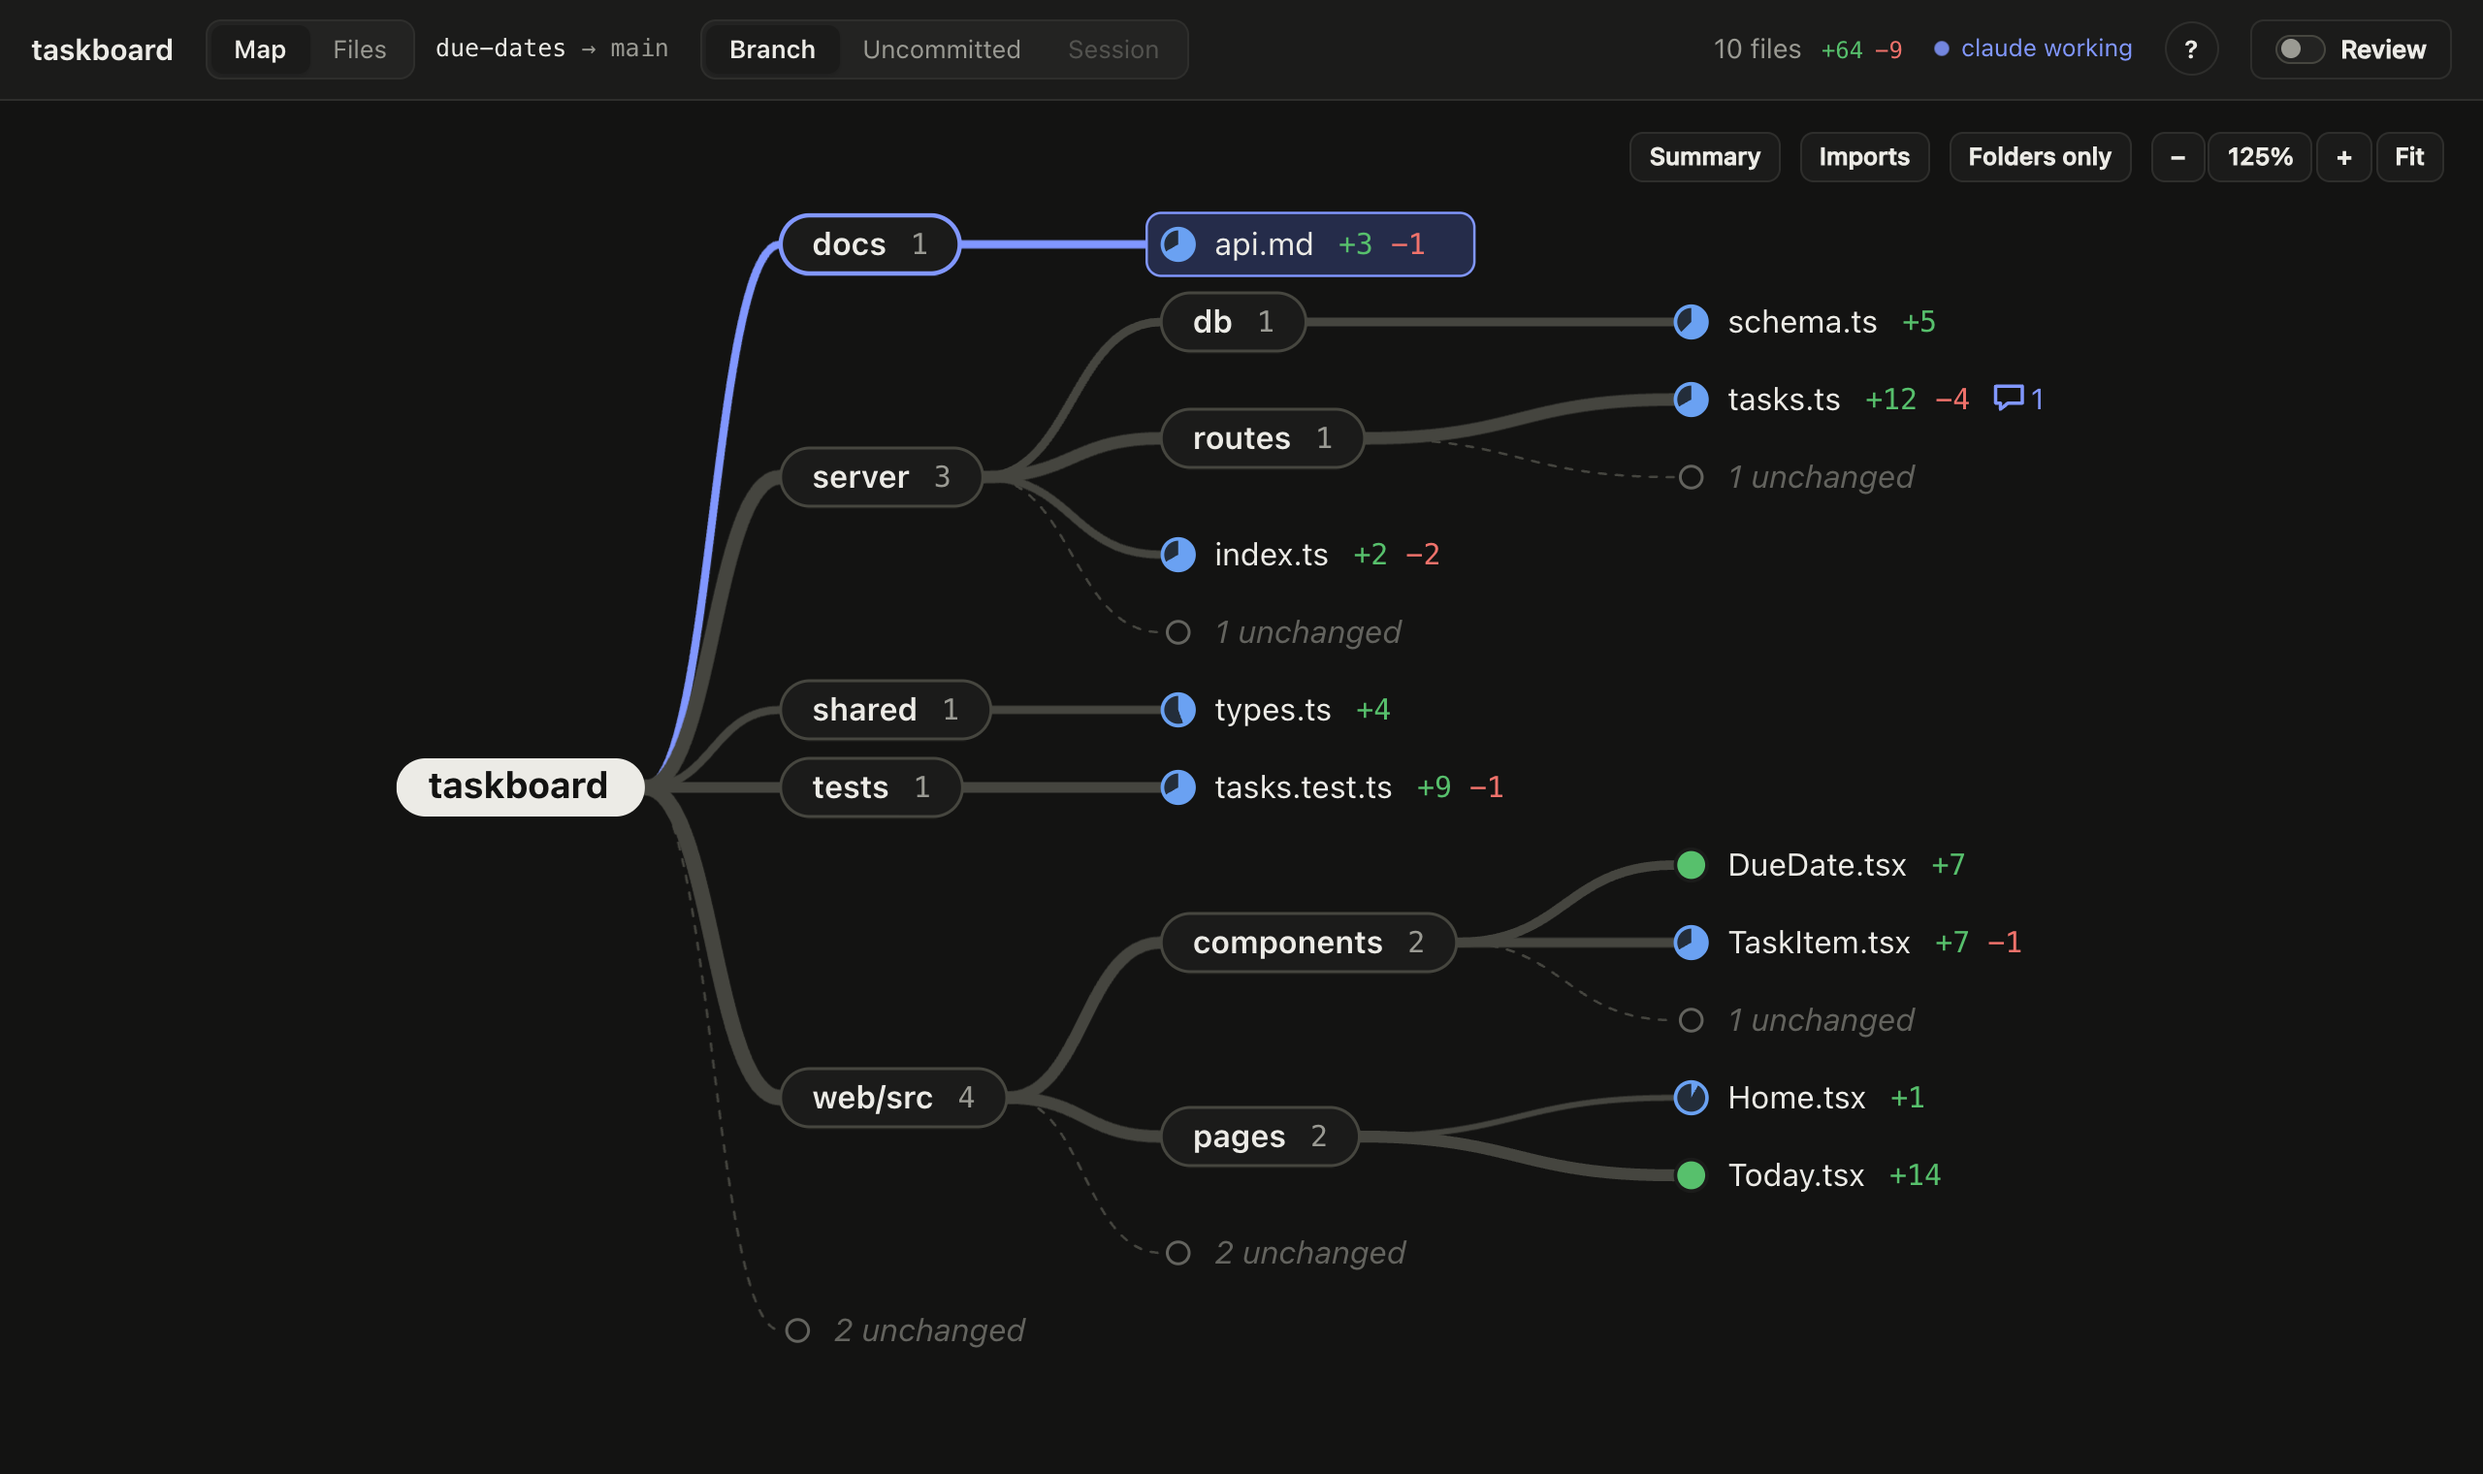
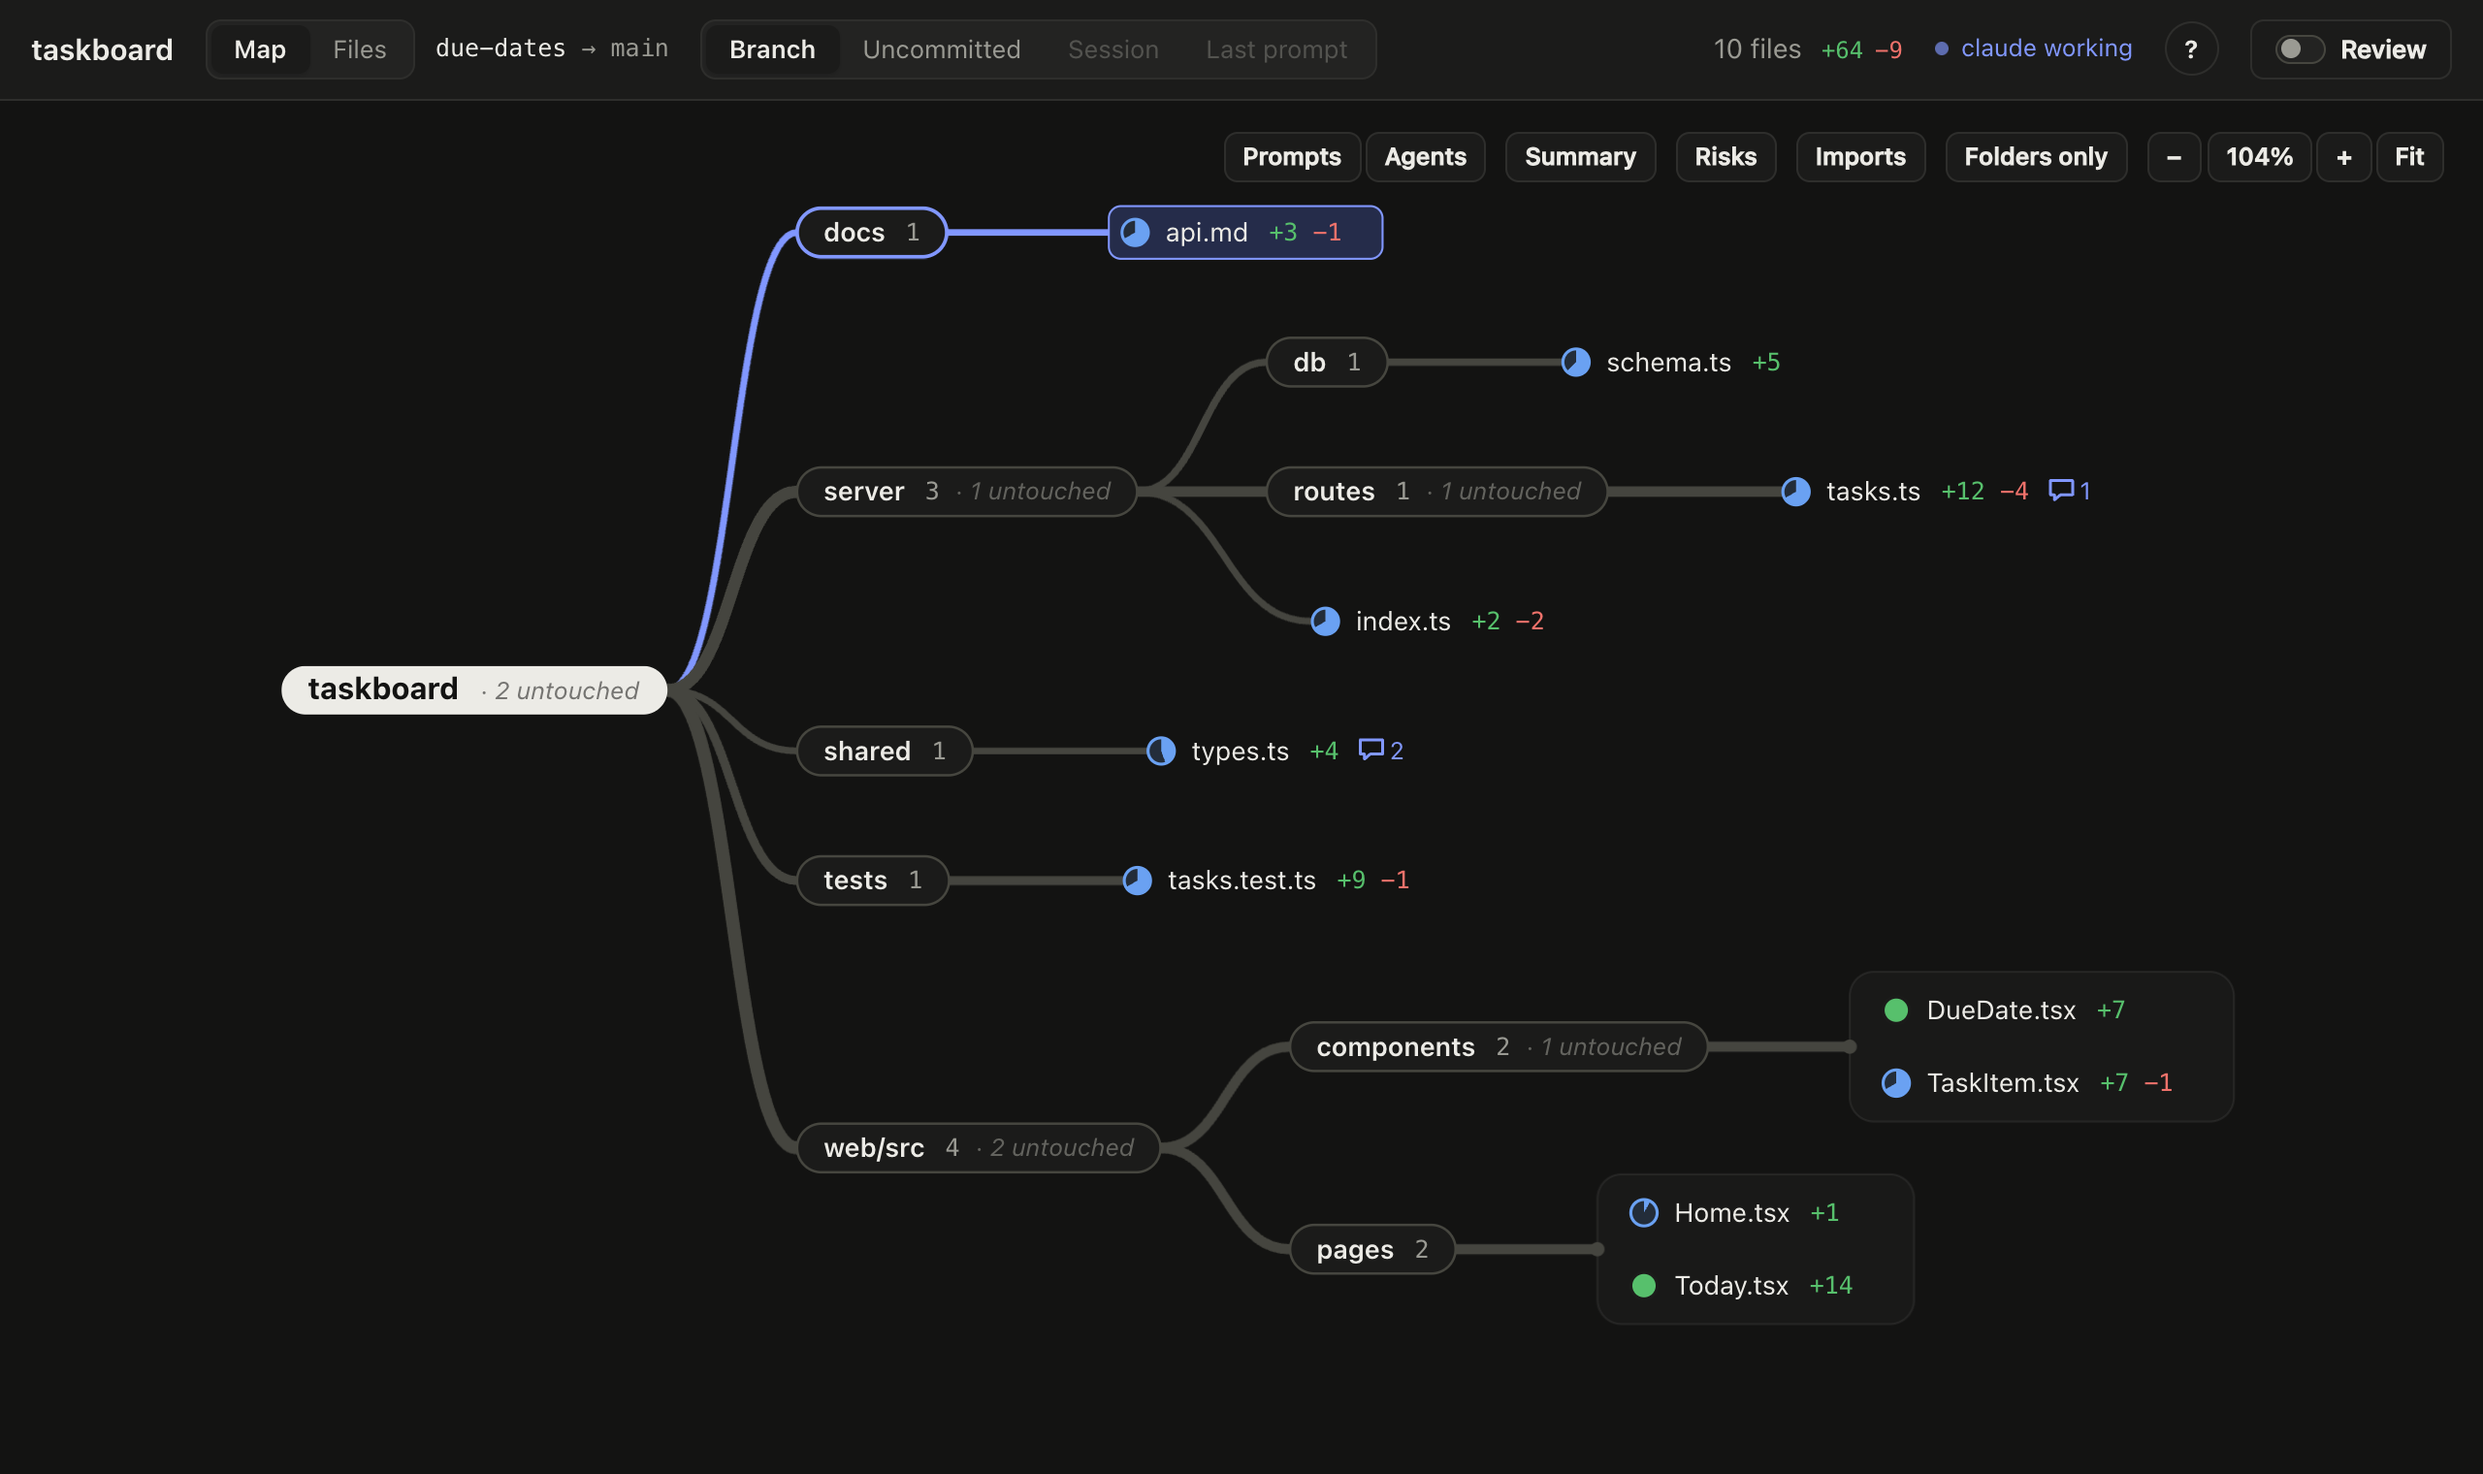
docs: new screenshots and sections for the compact map, last prompt, colours, risks and notifications

diff --git a/docs/index.html b/docs/index.html
@@ -205,7 +205,7 @@ footer { padding-block: 40px calc(40px + env(safe-area-inset-bottom, 0px)); bord
       <a href="#features">Features</a>
       <a href="#tour">Tour</a>
       <a href="#install">Install</a>
-      <a class="gh" href="https://github.com/zenodea/graphdiff">GitHub ↗</a>
+      <a class="gh" href="https://github.com/zenodea/diffgraph">GitHub ↗</a>
     </div>
   </nav>
 
@@ -215,7 +215,7 @@ footer { padding-block: 40px calc(40px + env(safe-area-inset-bottom, 0px)); bord
       <h1>See the <span class="grad">shape</span> of what your agent changed.</h1>
       <p class="lede">Press <kbd>prefix+g</kbd> and the repo's changes open as a live map: which folders, how much, and what depends on what.</p>
       <div class="install">
-        <div class="cmd"><span class="prompt">$</span><code id="cmd">herdr plugin install zenodea/graphdiff</code><button class="copy" data-copy="#cmd">Copy</button></div>
+        <div class="cmd"><span class="prompt">$</span><code id="cmd">herdr plugin install zenodea/diffgraph</code><button class="copy" data-copy="#cmd">Copy</button></div>
         <a class="ghost-btn" href="#tour">Take the tour →</a>
       </div>
     </div>
@@ -260,6 +260,21 @@ footer { padding-block: 40px calc(40px + env(safe-area-inset-bottom, 0px)); bord
         <p>Pick lines and ask. A read-only copy of your agent answers inline, or send the question to the agent in your pane.</p>
       </div>
       <div class="feature reveal">
+        <svg viewBox="0 0 30 30" fill="none" stroke-width="2" stroke-linecap="round"><circle cx="9" cy="9" r="4" fill="#e8a33d"/><circle cx="21" cy="9" r="4" fill="#e06c9f"/><circle cx="15" cy="21" r="4" fill="#4fc1c1"/></svg>
+        <h3>Who did what</h3>
+        <p>Colour files by the prompt or the agent that changed them, and see where several agents overlap.</p>
+      </div>
+      <div class="feature reveal">
+        <svg viewBox="0 0 30 30" fill="none" stroke="#8197ff" stroke-width="2" stroke-linecap="round" stroke-linejoin="round"><rect x="4" y="6" width="22" height="14" rx="4"/><path d="M9 13h12M9 24h12"/></svg>
+        <h3>What it just did</h3>
+        <p>See only your last prompt's changes, and get a herdr notification with the shape of it when the agent finishes.</p>
+      </div>
+      <div class="feature reveal">
+        <svg viewBox="0 0 30 30" fill="none" stroke="#f0a75a" stroke-width="2" stroke-linecap="round" stroke-linejoin="round"><path d="M15 4l12 21H3z"/><path d="M15 12v6M15 21.5v.2"/></svg>
+        <h3>Risks</h3>
+        <p>Flags rewrites, huge changes, broken imports and untested code, when you want a second look.</p>
+      </div>
+      <div class="feature reveal">
         <svg viewBox="0 0 30 30" fill="none" stroke="#57c06c" stroke-width="2.2" stroke-linecap="round" stroke-linejoin="round"><rect x="4" y="11" width="22" height="8" rx="4"/><circle cx="21" cy="15" r="2.5" fill="#57c06c" stroke="none"/></svg>
         <h3>Review, if you want</h3>
         <p>Flip on review mode to tick files off. If the agent edits one again, it comes back on its own.</p>
@@ -286,6 +301,14 @@ footer { padding-block: 40px calc(40px + env(safe-area-inset-bottom, 0px)); bord
         <img src="screenshots/summary.png" alt="A side panel with a one-line summary per folder" loading="lazy" width="2560" height="1520">
       </div>
       <div class="shot reveal">
+        <div class="shot-text"><h3>Who did what</h3><p>Each file is coloured by the prompt that changed it. Hover one in the legend to see just its files.</p></div>
+        <img src="screenshots/prompts.png" alt="The map coloured by prompt, with one prompt highlighted" loading="lazy" width="2560" height="1520">
+      </div>
+      <div class="shot reveal">
+        <div class="shot-text"><h3>Worth a second look</h3><p>Risk hints mark a deleted file that's still imported, an export something still uses, and code that changed with no tests.</p></div>
+        <img src="screenshots/risks.png" alt="Warning marks on a deleted file and a changed export" loading="lazy" width="2560" height="1520">
+      </div>
+      <div class="shot reveal">
         <div class="shot-text"><h3>Ask, right where it is</h3><p>Pick the lines, ask your question, and read the answer under them.</p></div>
         <img src="screenshots/ask.png" alt="A question about two lines, with the answer shown under them" loading="lazy" width="2560" height="1520">
       </div>
@@ -298,7 +321,7 @@ footer { padding-block: 40px calc(40px + env(safe-area-inset-bottom, 0px)); bord
     <h2 class="reveal">Set it up in a minute</h2>
     <p class="sub reveal">Needs <a href="https://herdr.dev">herdr</a>, git and Node 22 or newer. Questions and summaries go to the same kind of agent you're running: Claude Code, Codex or pi.</p>
     <div class="steps">
-      <div class="step reveal"><h3>Install the plugin</h3><pre>herdr plugin install zenodea/graphdiff</pre></div>
+      <div class="step reveal"><h3>Install the plugin</h3><pre>herdr plugin install zenodea/diffgraph</pre></div>
       <div class="step reveal"><h3>Bind a key</h3><pre>[[keys.command]]
 key = "prefix+g"
 type = "plugin_action"

diff --git a/README.md b/README.md
@@ -7,12 +7,14 @@ browser opens a live map of that repo's changes: which folders were touched, how
 and what depends on what. It's for getting a feel for a change before (or instead of)
 reading every line of it.
 
+[Website](https://zenodea.github.io/diffgraph/) · [GitHub](https://github.com/zenodea/diffgraph)
+
 ![The map: folders branch out to the files that changed](docs/screenshots/map.png)
 
 ## Install
 
 ```sh
-herdr plugin install zenodea/graphdiff
+herdr plugin install zenodea/diffgraph
 ```
 
 Then bind it in `~/.config/herdr/config.toml`:
@@ -31,13 +33,38 @@ Press `prefix+g` in any pane that's inside a git repo.
 
 ### The map
 
-Your repo as a tree, but only the parts that changed. Each folder is a branch. Thicker
-branches changed more, so the heavy parts stand out. Each file's dot fills like a pie
-with how much of that file changed, so a two-line tweak and a rewrite look different.
-Untouched files fold into one grey "n unchanged" node per folder.
+Your repo as a tree, but only the parts that changed. Each folder is a branch, and its
+files sit in a small grid next to it, so even a hundred-file change stays readable.
+Thicker branches changed more, so the heavy parts stand out. Each file's dot fills like a
+pie with how much of that file changed, so a two-line tweak and a rewrite look different.
+Each folder notes how much of it went untouched.
 
 It's live: as the agent writes, files flash, new ones appear and the rest glide out of the
-way. Pan with two fingers, pinch to zoom, press `0` to fit.
+way. Pan with two fingers, pinch to zoom, press `0` to fit, and move around with
+`h` `j` `k` `l`.
+
+### What it just did
+
+The **Last prompt** scope shows only what the agent changed for your latest prompt. And
+when an agent finishes a turn, herdr shows a notification with the shape of it, like
+*"claude finished · Changed 6 files: web/src 4, server/routes 2"*, so you know where to
+look before you open anything.
+
+### Who did what
+
+**Prompts** colours each file by the prompt that changed it; **Agents** colours it by the
+agent session that did, so with several agents in one repo you can see who touched what,
+and where they overlap. Hover an entry in the legend to see just its files.
+
+![Colour by prompt: hovering one prompt shows just the files it touched](docs/screenshots/prompts.png)
+
+### Risks
+
+Turn on **Risks** to flag things worth a second look: files that were mostly rewritten,
+very large changes, a deleted file or a removed export that something still imports, and
+code that changed with no tests touched.
+
+![Risk hints on a deleted file that's still imported and a removed export](docs/screenshots/risks.png)
 
 ### Imports
 
@@ -100,6 +127,10 @@ already reviewed, it's flagged as "edited again".
 - **Branch:** everything since the branch left `main` (or `master`), plus uncommitted work.
 - **Uncommitted:** only what isn't committed yet.
 - **Session:** only what the agent in this pane touched since its session started.
+- **Last prompt:** only what it touched for your latest prompt.
+
+Session and Last prompt read the agent's own transcript (Claude Code, Codex or pi), so they
+only see edits it made with its edit tools, not ones it made through shell commands.
 
 ## Config
 
@@ -110,7 +141,8 @@ Optional, in `$(herdr plugin config-dir graphdiff)/config.json`:
   "port": 4777,
   "base": "main",
   "ask": { "command": ["my-agent", "--read-only"], "format": "text" },
-  "summary": { "enabled": true }
+  "summary": { "enabled": true },
+  "notify": true
 }
 ```
 
@@ -122,6 +154,7 @@ Optional, in `$(herdr plugin config-dir graphdiff)/config.json`:
   whichever is installed. A custom command gets the prompt on stdin, runs in the repo, and
   its stdout is the answer.
 - `summary`: switch summaries off with `"enabled": false`, or set `command` the same way.
+- `notify`: `false` turns off the herdr notification when an agent finishes.
 
 ## How it works
 
@@ -131,6 +164,9 @@ request needs the token, and it exits after 30 idle minutes. It reads your repo 
 `git`, watches it for changes, and keeps review marks and question threads in herdr's
 plugin state directory. Nothing leaves your machine except the prompts you choose to
 send to a model (questions and summaries).
+
+On macOS, `prefix+g` brings an already-open graphdiff tab to the front in Chrome, Brave,
+Edge or Safari (Firefox can't be asked about its tabs, so there it opens a new one).
 
 `herdr plugin action invoke graphdiff.stop` stops the server.
 
@@ -147,13 +183,14 @@ herdr plugin link "$PWD"
 
 ```
 src/
-  cli.ts            open / serve / stop
+  cli.ts            open / serve / stop / notify
   server/
     core/           HTTP, live events, config, herdr
     git/            scopes, changed files, diffs
     review/         review marks
-    agents/         transcripts, "why", questions, summaries
-    deps/           import graph
+    agents/         transcripts, "why", questions, summaries, who did what
+    deps/           import graph, risk hints
+    notify.ts       the "agent finished" notification
   web/
     app/            page shell and top bar
     map/            the map, layout, pan and zoom
